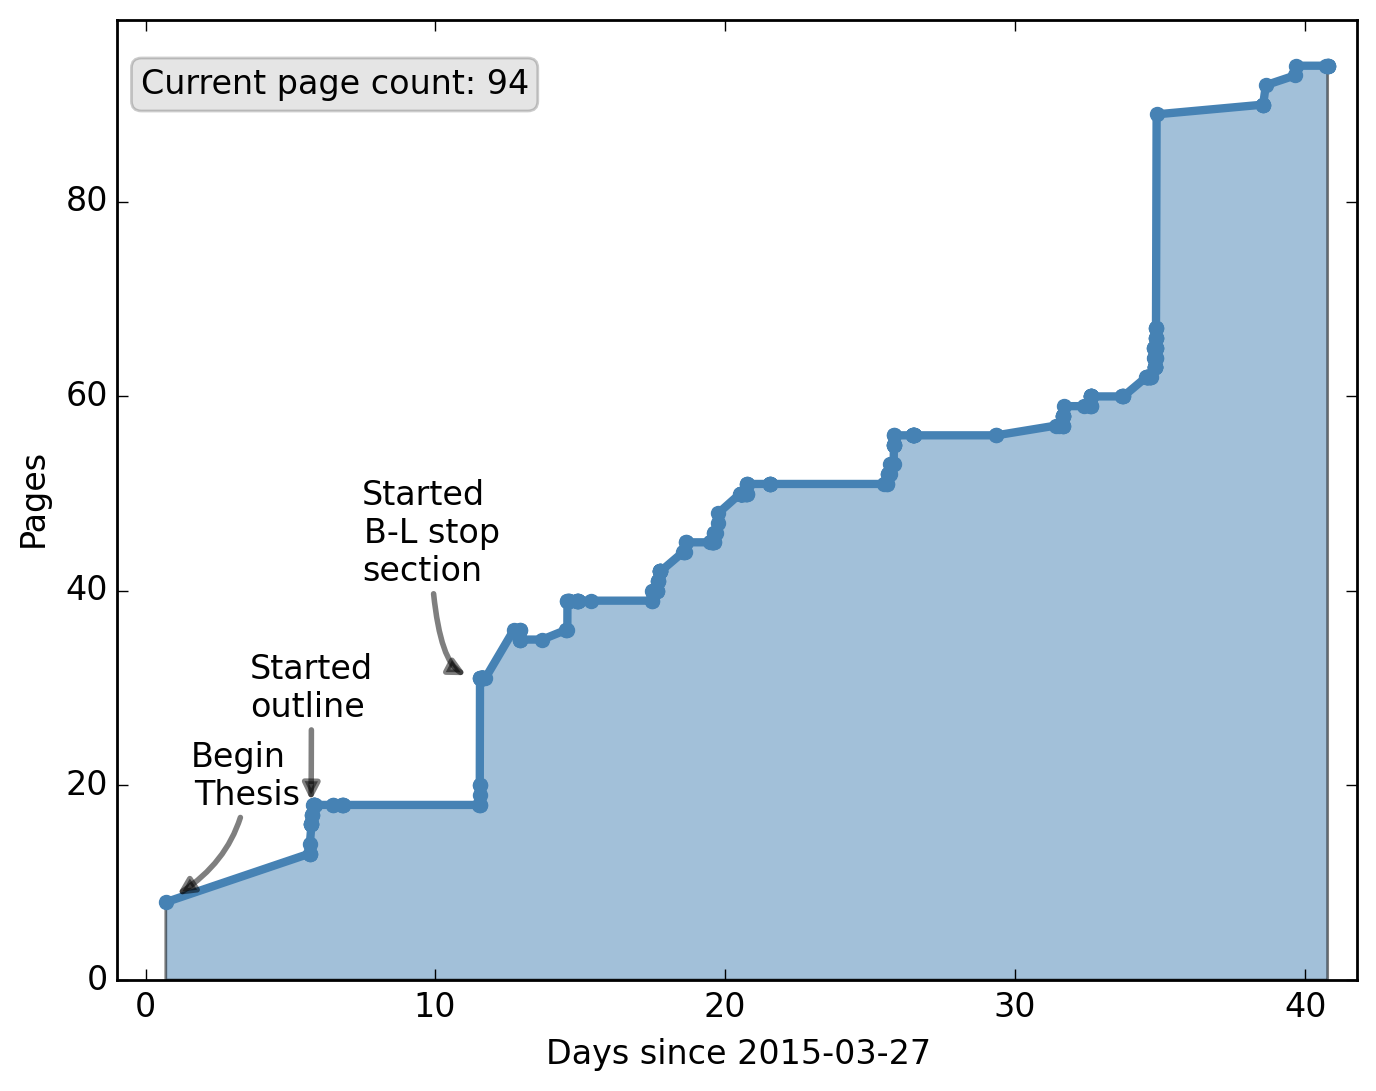
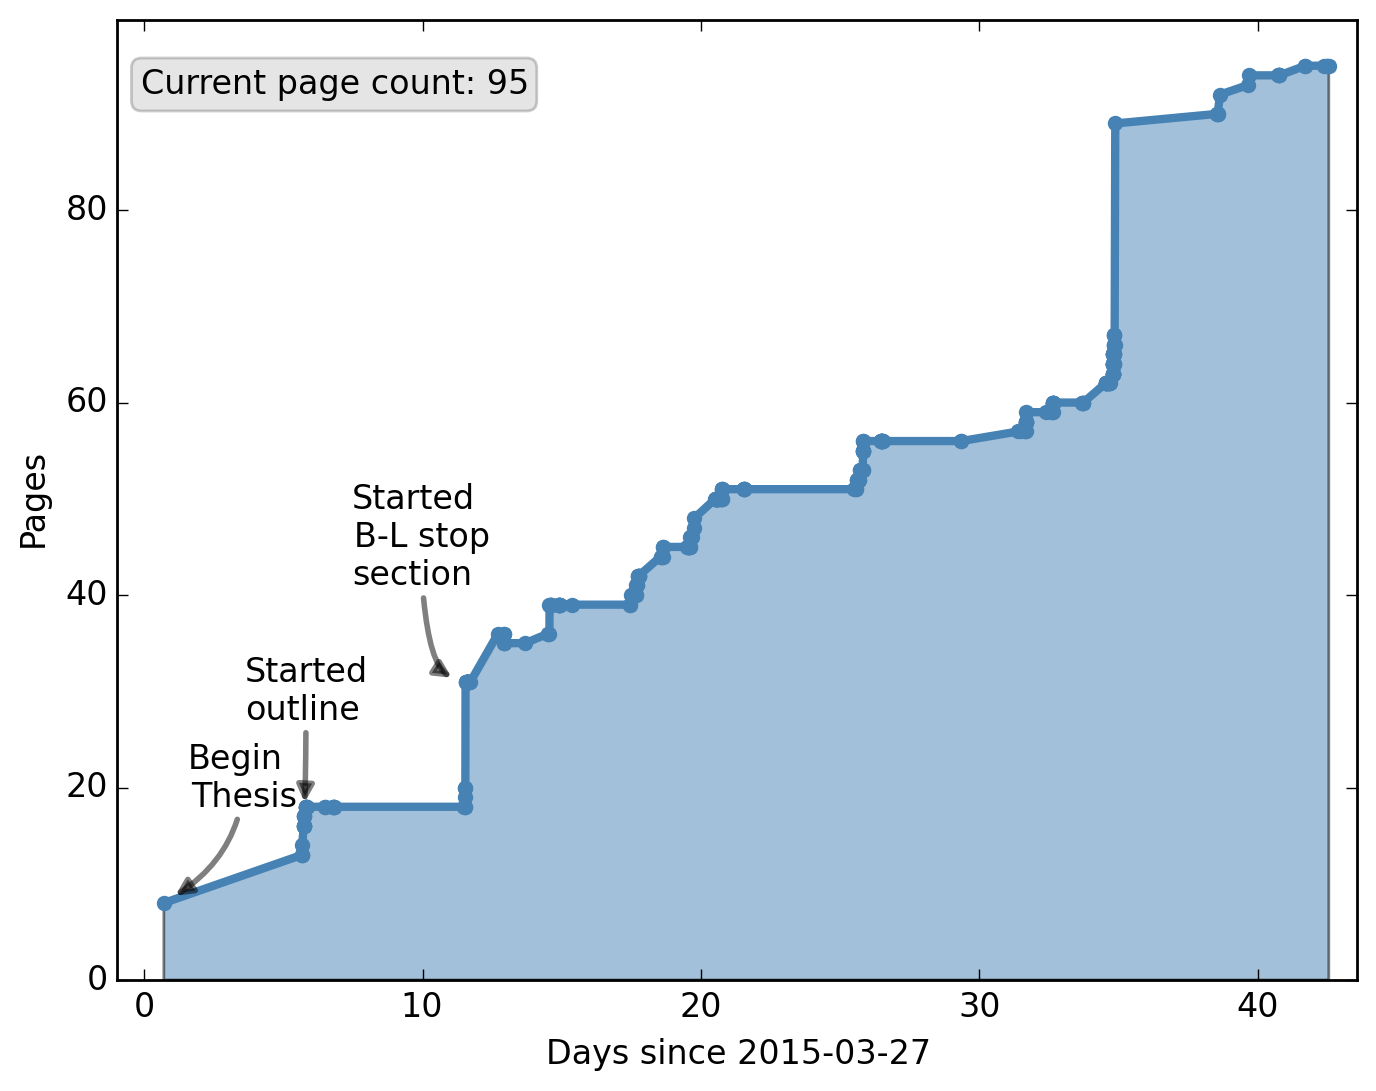
add to interpretation section

diff --git a/tex/blstop.tex b/tex/blstop.tex
@@ -2178,12 +2178,29 @@ Each SR (SR 400 and SR 600) is interpreted separately, using the predicted and
 observed event yields in the CRs and the SR of interest.
 A likelihood fit is performed to obtain the model-dependent estimate of the
 background and signal strengths.
-To obtain an expected limit, the data in the SR is replaced with the pre-fit MC
-prediction in the SR.
-A $CL_S$ value is computed....
-
-
-{\color{red}TODO Talk about single model test}
+For the expected limit the data in the SR is replaced with the pre-fit MC
+prediction.
+An expected and observed $CL_S$ value is computed for each simulated stop mass,
+in each SR to assess the relative compatibility of the data with the
+signal~+~background hypothesis and the background only hypothesis.
+For each stop mass, the SR which gives the best expected sensitivity, as
+measured by the lower $CL_S$ value is selected, and used to interpret the model
+at that mass.
+The HistFitter package limits the precision of the $CL_S$ value to $10^{-6}$;
+if the two SRs are affected by this cutoff, SR~400 is chosen by convention.
+This simplification is not expected to affect the final result, as these points
+are far from the mass limit boundary.
+If the observed $CL_S$ value in the selected SR is less than 0.05, the signal
+model is rejected at 95\%~CL, and an observed (expected) limit on the stop mass
+is determined by taking the highest stop mass, with an observed (expected)
+$CL_S$ value less than 0.05.
+Figure~\ref{fig:exp_limit_br_5050} shows an example $CL_S$ plot (for both SRs)
+for the scenario with $Br(\tilde{t} \to eb) = Br(\tilde{t} \to \mu b) = 0.5$.
+In the high mass regime, SR~600 is selected to interpret the mode, and
+the points where the solid line is below 0.05 (indicated with a dashed red line)
+are excluded.
+No interpolation between the mass points is performed, so the mass limit for
+this choice of stop branching ratios is 900~\GeV.
 
 \begin{figure}[t]
   \centering
@@ -2196,20 +2213,43 @@ A $CL_S$ value is computed....
   \label{fig:exp_limit_br_5050}
 \end{figure}
 
+This procedure of finding a stop mass limit is repeated for branching ratios
+across the plan of allowed values.
+The MC simulation stop samples are generated with fixed branching
+ratios ($Br(\tilde{t} \to eb) = Br(\tilde{t} \to \mu b) = 0.5$),
+however, an additional event weight, dependent on the di-lepton flavor channel,
+to scale the signal process to any desired choice of stop branching ratios.
+It was shown that the disagreement between the generated and reconstructed
+flavor channels is negligible, so the reconstructed di-lepton flavor channel
+is used to select the additional weight.
 
-For each stop mass, exclusion fits are performed with various assumptions on
-the branching ratios of the stop.
-
-{\color{red}TODO talk about how to scale for branching fractions.}
-
-\begin{align}
-  SF_\mathrm{flavor}(\tilde{t}\tilde{t}^{*} \rightarrow bbee)     &=
-    \frac{Br(\tilde{t} \rightarrow be)^2}{0.25} \\
-  SF_\mathrm{flavor}(\tilde{t}\tilde{t}^{*} \rightarrow bb\mu\mu) &=
-    \frac{Br(\tilde{t} \rightarrow b\mu)^2}{0.25} \\
-  SF_\mathrm{flavor}(\tilde{t}\tilde{t}^{*} \rightarrow bbe\mu)   &=
-    \frac{2Br(\tilde{t} \rightarrow be)Br(\tilde{t} \rightarrow b\mu)}{0.50} 
-\end{align}
+The di-stop branching fractions are given by 
+\begin{equation}
+  \begin{aligned}
+    Br_\mathrm{flavor}(\tilde{t}\tilde{t}^{*} \rightarrow bbee)     &=
+      Br_\mathrm{flavor}(\tilde{t} \rightarrow be )^{2} \\
+    Br_\mathrm{flavor}(\tilde{t}\tilde{t}^{*} \rightarrow bb\mu\mu) &=
+      Br_\mathrm{flavor}(\tilde{t} \rightarrow b\mu )^{2} \\
+    Br_\mathrm{flavor}(\tilde{t}\tilde{t}^{*} \rightarrow bbe\mu)   &=
+      2Br_\mathrm{flavor}(\tilde{t} \rightarrow be )
+      Br_\mathrm{flavor}(\tilde{t} \rightarrow b\mu ).
+  \end{aligned}
+\end{equation}
+The di-stop branching fractions for each flavor channel are plotted for choices
+of the single-stop branching ratio in Figure~\ref{fig:flavor_scaling_bf}, where
+darker colors represent a higher branching fraction.
+As the value of $Br(\tilde{t} \to eb)$ increases (represented by moving toward
+the bottom right corner of each of the plots), the fraction of events decaying
+to the $eebb$ final state increases, while the other two flavor channels
+have fewer expected events.
+Similarly, as the value of $Br(\tilde{t} \to \mu b)$ increases (represented by
+moving toward the bottom left corner of each of the plots), the fraction of
+events decaying to the $\mu\mu bb$ final state increases.
+Finally, as the branching ratio of the stop to $\tau b$ decay increases,
+represented by moving toward the upper right corner of the plots, the number of
+expected events with two light leptons decreases.
+The nominal di-stop branching fractions of 0.25, 0.25, and 0.50 for the $eebb$,
+$\mu\mu bb$, $e\mu bb$ channels respectively.
 
 \begin{figure}[ht]
   \centering
@@ -2219,6 +2259,20 @@ the branching ratios of the stop.
   }
   \label{fig:flavor_scaling_bf}
 \end{figure}
+
+
+
+
+\begin{equation}
+  \begin{aligned}
+    SF_\mathrm{flavor}(\tilde{t}\tilde{t}^{*} \rightarrow bbee)     &=
+      \frac{Br(\tilde{t} \rightarrow be)^2}{0.25} \\
+    SF_\mathrm{flavor}(\tilde{t}\tilde{t}^{*} \rightarrow bb\mu\mu) &=
+      \frac{Br(\tilde{t} \rightarrow b\mu)^2}{0.25} \\
+    SF_\mathrm{flavor}(\tilde{t}\tilde{t}^{*} \rightarrow bbe\mu)   &=
+      \frac{2Br(\tilde{t} \rightarrow be)Br(\tilde{t} \rightarrow b\mu)}{0.50} 
+  \end{aligned}
+\end{equation}
 
 \begin{figure}[ht]
   \centering

diff --git a/PageNumbers.md b/PageNumbers.md
@@ -292,3 +292,9 @@ Wed May 6 20:44:17 CEST 2015 , 94
 Wed May 6 20:47:19 CEST 2015 , 94
 Wed May 6 20:47:45 CEST 2015 , 94
 Wed May 6 20:49:38 CEST 2015 , 94
+Thu May 7 18:58:17 CEST 2015 , 95
+Thu May 7 19:07:27 CEST 2015 , 95
+Fri May 8 11:37:36 CEST 2015 , 95
+Fri May 8 13:24:47 CEST 2015 , 95
+Fri May 8 14:06:25 CEST 2015 , 95
+Fri May 8 15:21:04 CEST 2015 , 95
